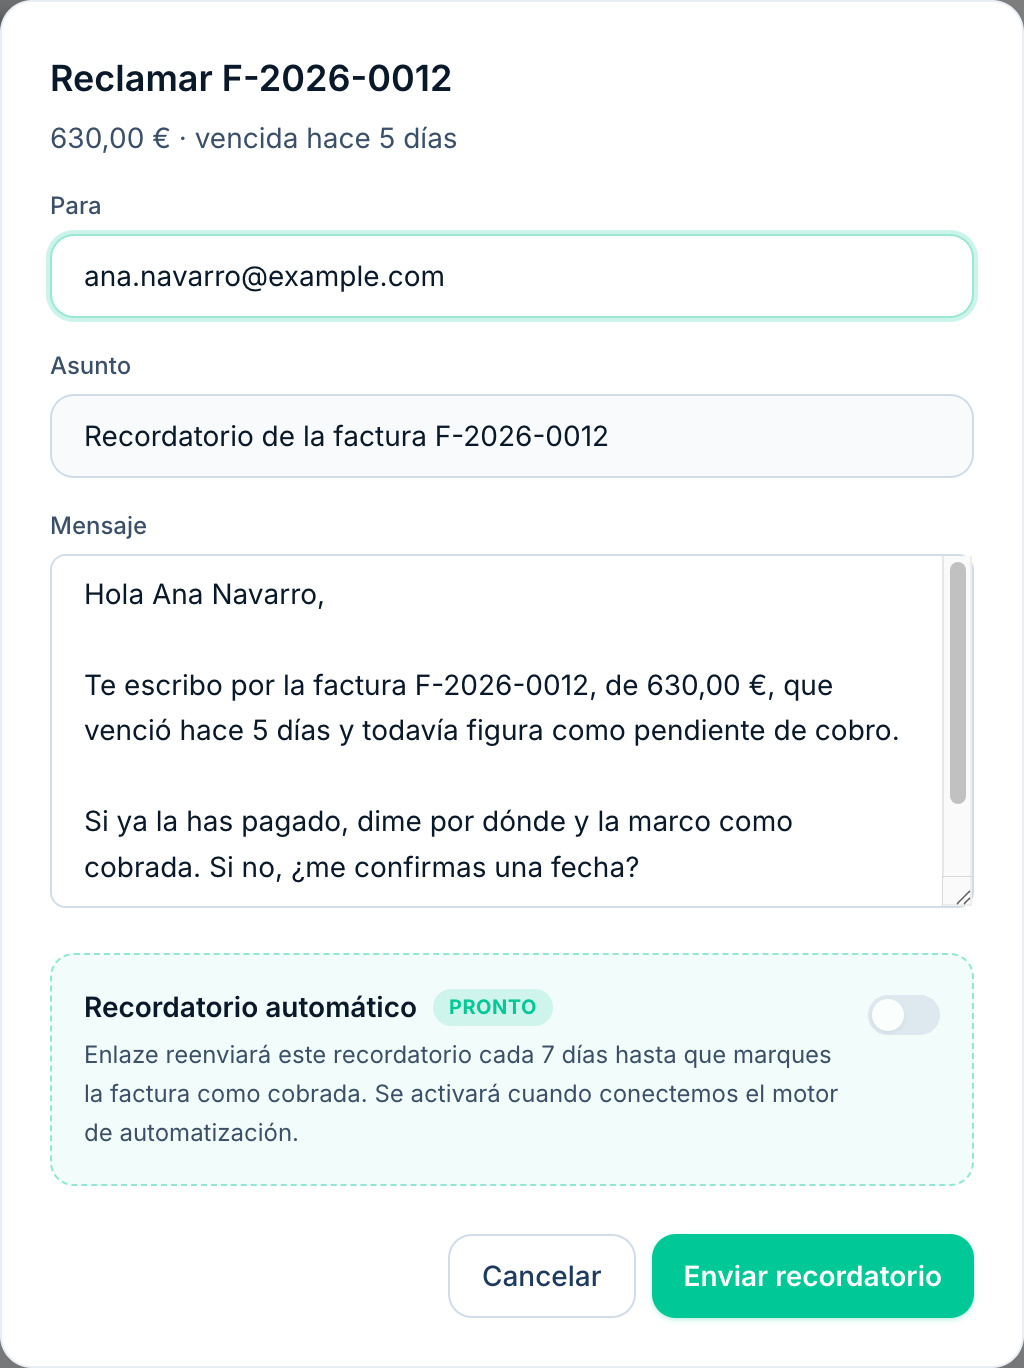
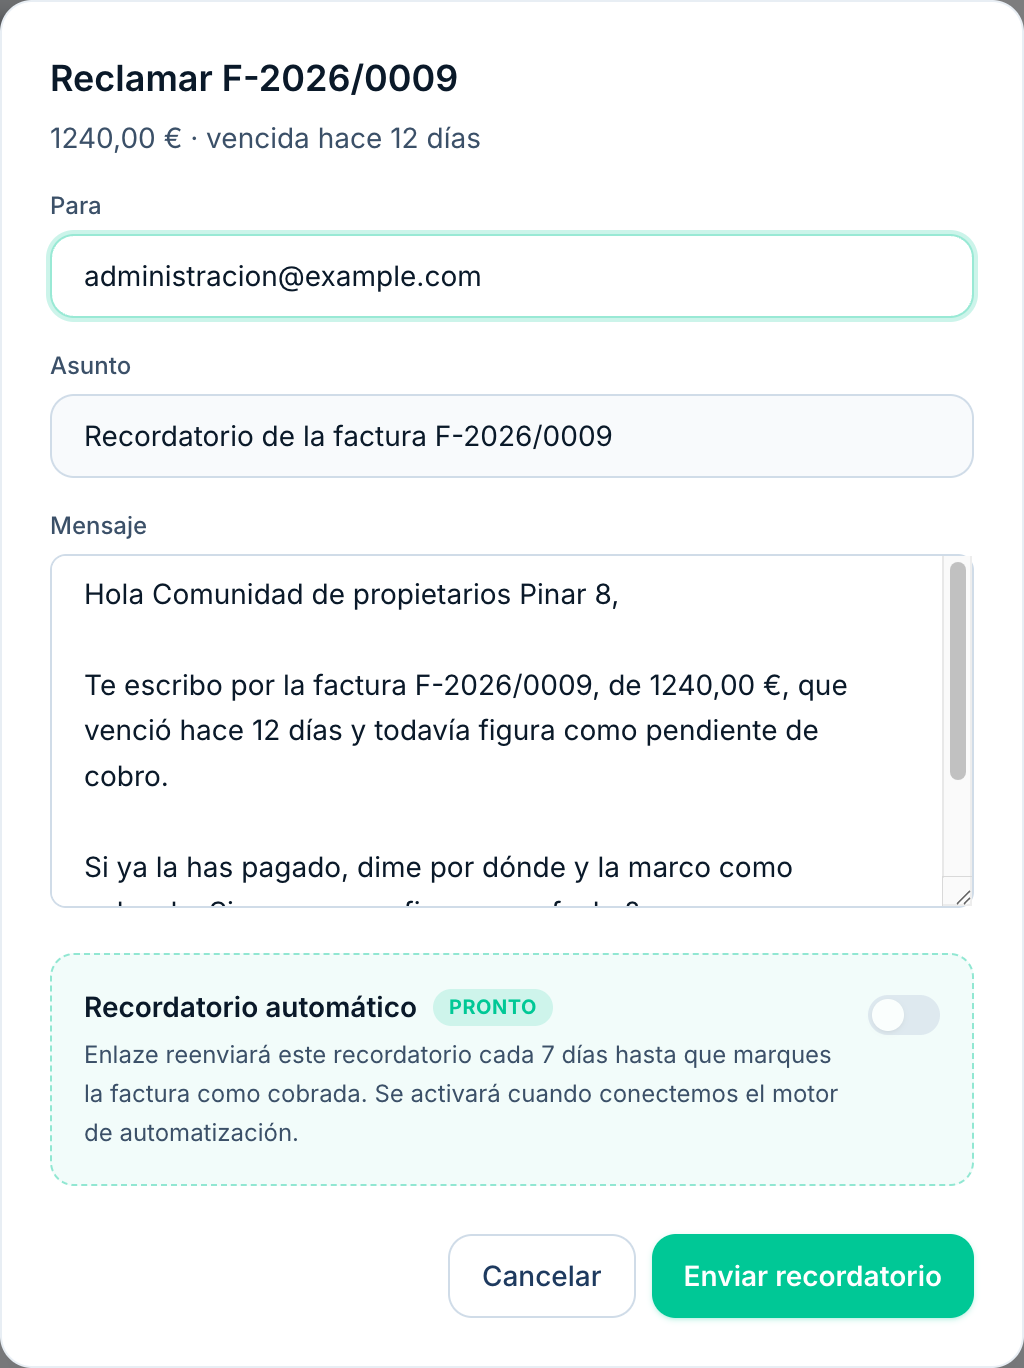
docs(b13): informe, capturas y resumen real de la cuenta demo; capturas con datos creados desde la app

diff --git a/app/page.tsx b/app/page.tsx
@@ -91,9 +91,9 @@ function Shot({
 function Hero() {
   return (
     <section className="relative overflow-hidden">
-      <div className="mx-auto grid max-w-6xl items-center gap-12 px-4 pb-20 pt-12 sm:px-6 md:pt-20 lg:grid-cols-[1fr_1.05fr] lg:gap-14 lg:pb-28">
+      <div className="mx-auto grid max-w-6xl items-center gap-12 px-4 pb-20 pt-12 sm:px-6 md:pt-20 lg:grid-cols-[1.15fr_1fr] lg:gap-14 lg:pb-28">
         <div>
-          <h1 className={`${H} text-[2.6rem] font-semibold leading-[1.02] tracking-[-0.03em] text-navy-900 sm:text-[3.4rem] lg:text-[4rem]`}>
+          <h1 className={`${H} text-[2.5rem] font-semibold leading-[1.03] tracking-[-0.03em] text-navy-900 sm:text-[3.3rem] lg:text-[3.6rem]`}>
             Ocúpate de tu oficio. Del papeleo nos ocupamos nosotros.
           </h1>
           <p className="mt-6 max-w-[34rem] text-[17px] leading-[1.6] text-navy-600 sm:text-[18px]">
@@ -117,9 +117,9 @@ function Hero() {
           <AnimatedBlock y={28} duration={900}>
             <Shot
               src="/landing/resumen.png"
-              alt="Resumen del día en Enlaze: cobrar dos facturas vencidas que suman 1.870 euros, llamar a una clienta por un presupuesto sin respuesta y revisar un material que ha subido de precio."
-              width={1822}
-              height={1796}
+              alt="Resumen del día en Enlaze: reclamar dos facturas vencidas que suman 1.870 euros, con el recordatorio preparado, y mandar un presupuesto de cocina terminado."
+              width={1826}
+              height={1322}
               priority
               sizes="(min-width: 1024px) 560px, 100vw"
             />
@@ -228,7 +228,7 @@ const PROOFS: Proof[] = [
     note: "Hoy el envío lo das tú. El reenvío automático está en camino.",
     shot: {
       src: "/landing/reclamar.png",
-      alt: "Email de recordatorio preparado por Enlaze para una factura de 630 euros vencida hace 5 días.",
+      alt: "Email de recordatorio preparado por Enlaze para una factura de 1.240 euros vencida hace 12 días.",
       width: 1024,
       height: 1368,
     },

diff --git a/informes/2026-10-17-b13-landing.md b/informes/2026-10-17-b13-landing.md
@@ -1,0 +1,78 @@
+# b13-landing: landing nueva para el 26 de octubre y resumen con los datos de la cuenta
+
+Rama `auto/b13-landing`, sacada de `main` (9b5bacc). **No fusionar: la revisas tú.**
+
+## Qué ha cambiado
+
+- **Landing nueva** (`app/page.tsx` y `components/landing/LandingNav.tsx`). Siempre clara. Lleva tu titular y tu subtítulo. El resumen del día va de protagonista en la portada y en "Abres Enlaze y ya sabes qué hacer hoy". Después, cuatro pruebas con captura real: presupuestos con tus precios, escanear facturas, avisos de precio y recordatorios de cobro. Cierran los precios de `lib/plans.ts` ("+ IVA", 5 días sin tarjeta) y la llamada final. Reutiliza `Section`, `AnimatedBlock` y `Logo`. Titulares en Bricolage Grotesque. Las secciones viejas (`PainPoints`, `HowItWorks`…) siguen en `components/landing`, pero ya no se usan.
+- **El resumen diario ahora sí dice qué cobrar, a quién contestar y qué presupuesto mandar** (tu opción 1, hecha sobre main). `lib/agent/business-facts.ts` lo calcula en código, sin IA:
+  - facturas vencidas;
+  - presupuestos enviados hace 2 días o más sin respuesta;
+  - presupuestos terminados sin enviar;
+  - subidas de precio sin leer de la última semana;
+  - facturas de proveedor que vencen en 7 días.
+
+  `lib/agent/briefing-merge.ts` lo junta con lo de Gmail, Calendar y demás sin pisarlo. Si el resumen del agente es de hoy, sale entero y los hechos van delante. Si es de otro día, manda lo de hoy. Cada tarea enlaza con lo que ya está preparado: "Ver el recordatorio" abre el email de esa factura y "Abrir el presupuesto" lleva a su ficha. El muro de pago no cambia: sigue siendo Profesional o Empresa.
+- **"Reclamar la más antigua"** abría la más reciente. Arreglado.
+- Metadatos, título e imagen para redes con el posicionamiento nuevo.
+
+## Qué saca el resumen real (cuenta demo, 17-10)
+
+Cuenta `idkdu37+demo@gmail.com` (interna, "Reformas Alcor"). La contraseña te la doy aparte; no va en la rama. **Clientes, facturas y presupuestos los he creado desde la app**, con los formularios y el asistente, no por SQL. Por SQL solo van el perfil, los ajustes fiscales, 3 proveedores, 4 precios fijados y 2 alertas (`scripts/demo-landing/semilla-demo.sql`).
+
+El resumen dice "**Hoy toca cobrar 1.870 € y mandar un presupuesto**" (captura en `informes/capturas-b13/resumen-real-cuenta-demo.png`):
+- Reclamar F-2026/0009 a Comunidad de propietarios Pinar 8: 1.240 €, vencida hace 12 días. ALTA.
+- Reclamar F-2026/0010 a Ana Navarro: 630 €, vencida hace 5 días. MEDIA.
+- Mandar «Reforma de cocina» a Javier Ruiz: 7.458,34 €, terminado y sin enviar. MEDIA.
+- No sale la F-2026/0011, que vence el 2 de noviembre. Tampoco el baño de Marta Soler: lo marqué enviado hoy, y sale como "sin respuesta" **a partir del 19-10**.
+- **Avisos de precio: ninguno, y no he podido generar uno real.** Solo los crea `/api/prices/process-alerts` cuando el rastreo cambia un precio. Esa ruta procesa las alertas de todos los usuarios y les manda emails, así que no la he lanzado. La captura de avisos de la landing es de 2 avisos sembrados (datos inventados), que ya he borrado. La parte del resumen que los lee está probada con pruebas unitarias, no con un aviso real.
+
+## Cómo lo he comprobado
+
+- Pruebas nuevas: `business-facts` (9), `briefing-merge` (7) y `landing-b13-claims` (7). Esta última vigila que no aparezcan Verifactu, "certificado", "firmado", "cumple", "ley" ni "varios usuarios". También que no haya emojis ni `dark:`, y que no haya ningún precio escrito a mano.
+- **Batería completa: 659 pasan, 0 fallan, 2 `todo`.** `tsc --noEmit` sin errores. `npm run build` correcto. `eslint`: ningún error nuevo. Los 5 de `prices/page.tsx` ya estaban en main.
+- En el navegador, en local contra la base real: el resumen de la demo, el enlace al recordatorio, la landing a 1440 px y a 390 px sin scroll horizontal. Capturas en `informes/capturas-b13/`, solo en claro, como pediste.
+- b11 comprobado con datos reales: en los dos presupuestos nuevos, las partidas suman exactamente el subtotal y no hay líneas de cesta.
+- **La preview de Vercel no la he visto todavía.** Se genera al subir la rama. Si tiene protección de Vercel, no la abro (regla 6).
+
+## Qué tienes que decidir o saber antes del 26
+
+1. **Anthropic sin saldo** ("credit balance is too low"). Hoy falla el escaneo de facturas, y la landing lo enseña. El texto que escribe la IA en el resumen (n8n) usa la misma cuenta, así que probablemente también falla; no lo he comprobado. La parte nueva no depende de ella. **Hay que recargar antes del 26.**
+2. **Si no te convence el resumen nuevo el 22**, la landing sale con el texto de lo que hacía antes (tu condición). No lo tengo hecho: es cambiar el subtítulo y la captura de la portada, menos de una hora.
+3. La cuenta demo envejece: el "hace 12 días" sube cada día. Si quieres las capturas con fecha del 26, las rehago el 25.
+4. Fallo visto de paso, sin tocar: tu precio fijado "Suelo porcelánico 60x60 cm" no casa con el material del asistente "60×60", que lleva el signo ×. Parece un fallo del emparejamiento. ¿Bloque aparte?
+5. En el email de recordatorio el importe sale "1240,00 €", sin el punto de los miles.
+
+## Qué revisar en 10 minutos
+
+1. Abre la preview y lee la landing de arriba abajo en el móvil.
+2. Entra con la cuenta demo: el resumen tiene que decir lo de arriba. Pulsa "Ver el recordatorio".
+3. Entra con tu cuenta: el resumen de siempre sigue ahí, con tus facturas vencidas delante si las tienes.
+
+## Dominio: conectar enlaze.es a Vercel (lo haces tú)
+
+Hoy `enlaze.es` apunta a Hostinger: A `2.57.91.91` (página aparcada), `www` es CNAME a la raíz, nameservers `hermes/artemis.dns-parking.com`, sin MX, AAAA ni CAA. No he tocado nada.
+
+**1. Vercel** (proyecto `enlaze`, equipo `enlazes-projects`) → Settings → Domains:
+- Añade `enlaze.es` y `www.enlaze.es`. Elige cuál es el principal y que el otro redirija a él (308). Te recomiendo `enlaze.es` como principal.
+- Vercel enseña en la tarjeta de cada dominio los valores exactos. Usa esos: según el proyecto, la IP puede no ser la genérica `76.76.21.21`, y el CNAME puede ser uno propio (`xxxx.vercel-dns-0xx.com`) en vez de `cname.vercel-dns.com`.
+
+**2. Hostinger** → Dominios → enlaze.es → DNS / Nameservers (deja los nameservers de Hostinger):
+- Borra el registro A de `@` que apunta a `2.57.91.91`.
+- Añade A `@` → la IP de la tarjeta de Vercel.
+- Cambia `www`: CNAME → el destino de la tarjeta de Vercel.
+- No añadas AAAA: Vercel no admite IPv6 con DNS de terceros.
+- Si Hostinger tiene "aparcamiento" o redirección del dominio activados, desactívalos.
+
+**3. Comprobar:** `dig +short enlaze.es A` y `dig +short www.enlaze.es CNAME` deben dar los valores de Vercel. Espera a que la tarjeta diga "Valid Configuration" y a que salga el certificado. Después, `curl -sI https://enlaze.es` tiene que traer `server: Vercel` y `x-vercel-id`.
+
+**4. Lo que hay que cambiar después**, en este orden:
+1. **Vercel → Environment Variables (Production):** `NEXT_PUBLIC_SITE_URL=https://enlaze.es` y `NEXT_PUBLIC_APP_URL=https://enlaze.es`, y redespliega. Son variables `NEXT_PUBLIC_*`: solo cogen el valor nuevo en un despliegue nuevo. Las usan los metadatos, `robots.ts`, `sitemap.ts`, la recuperación de contraseña, el checkout y el portal de Stripe (vuelta tras pagar), `agent/config` (URL que recibe n8n) y los enlaces de los emails de precios.
+2. **Supabase → Authentication → URL Configuration:** Site URL `https://enlaze.es`. En Redirect URLs añade `https://enlaze.es/**` y `https://www.enlaze.es/**`. **Deja** `https://enlaze.vercel.app/**` y los de las previews hasta que todo funcione.
+3. **Google Cloud → OAuth (la app de Gmail y Calendar):** añade `https://enlaze.es` a los orígenes autorizados y `https://enlaze.es/api/auth/google/callback` a las URI de redirección. **Ojo:** `app/api/auth/google/route.ts` y `callback/route.ts` tienen escrito `https://enlaze.vercel.app` en el código. Hasta que se cambie (es una línea en cada fichero, y te lo hago en otra rama cuando digas), Google seguirá volviendo a `enlaze.vercel.app`, que sigue funcionando. No lo quites de Google.
+4. **Registro:** la app no usa login con Google por Supabase. El email de confirmación del registro no lleva `emailRedirectTo`, así que lleva a la Site URL del paso 2. Por eso ese paso va antes que anunciar el dominio.
+5. **Stripe → Settings → Public details / Customer portal:** web, términos (`https://enlaze.es/legal/terms`) y privacidad (`https://enlaze.es/legal/privacy`). El webhook de Stripe puede seguir en `enlaze.vercel.app`. Si lo mueves a `enlaze.es`, crea el nuevo, copia su secreto a `STRIPE_WEBHOOK_SECRET` y borra el viejo después.
+6. **n8n:** si algún workflow llama a `enlaze.vercel.app` por su cuenta, sigue funcionando. No hace falta tocarlo el mismo día.
+7. **Comprobar en la URL pública:** login con email, "he olvidado mi contraseña" (el enlace del email tiene que llevar a `enlaze.es`), conectar Google y un checkout de Stripe en modo prueba.
+
+Fuentes: [Vercel, añadir un dominio](https://vercel.com/docs/domains/working-with-domains/add-a-domain), [Vercel, registros A](https://vercel.com/kb/guide/a-record-and-caa-with-vercel), [Vercel, solución de problemas](https://vercel.com/docs/domains/troubleshooting).
